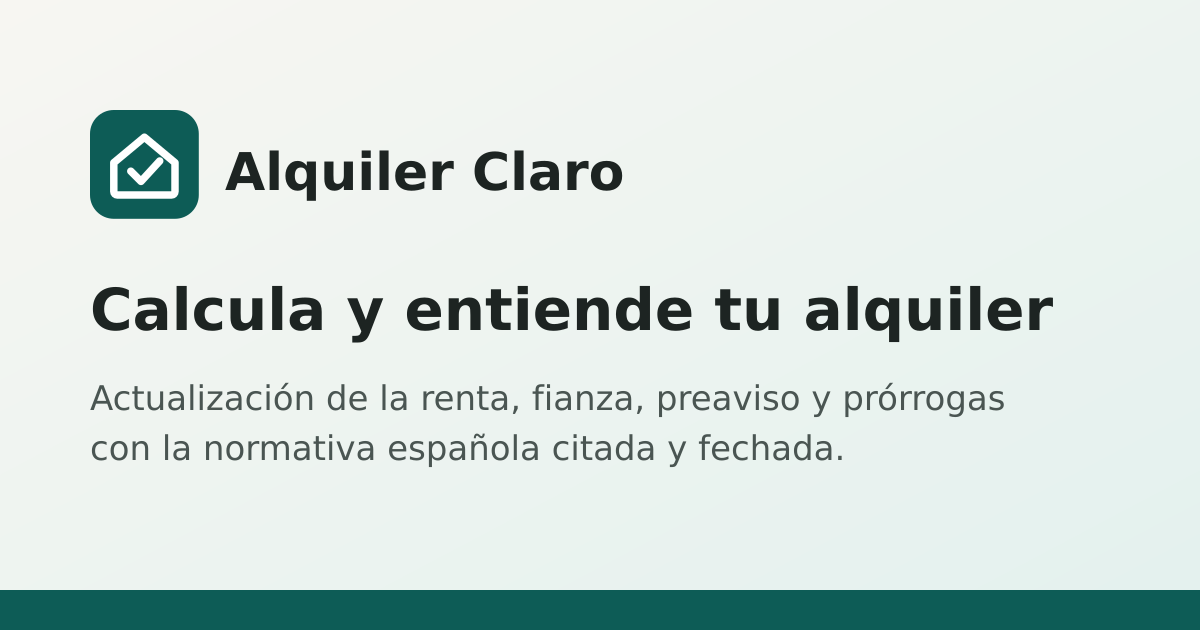
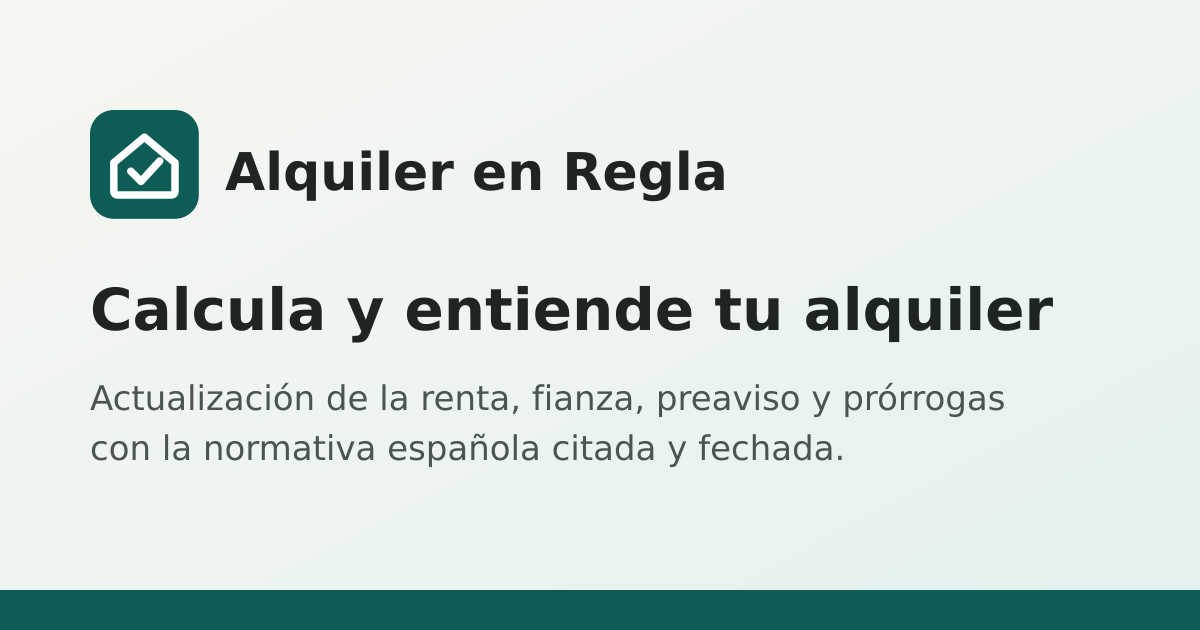
Renombrar el sitio a Alquiler en Regla (alquilerenregla.es)
Nombre y dominio por defecto en la configuración, imagen para redes
sociales regenerada, documentación de compra del dominio y pruebas de
la validación (se sigue rechazando el dominio de ejemplo al indexar).

Claude-Session: https://claude.ai/code/session_014hefrGGB78HWoEZcFjXWe2

Changed region(s): [[0.4008, 0.2413, 0.6167, 0.3317]]

diff --git a/tests/unit/utilidades.test.ts b/tests/unit/utilidades.test.ts
@@ -61,9 +61,17 @@ describe('configuración por variables de entorno', () => {
     expect(cfg.indexable).toBe(false);
     expect(validateEnv(cfg)).toEqual([]);
   });
-  it('indexar exige datos del titular y dominio real', () => {
+  it('el dominio y el nombre por defecto son los del proyecto', () => {
+    const cfg = parseEnv({});
+    expect(cfg.siteUrl).toBe('https://www.alquilerenregla.es');
+    expect(cfg.siteName).toBe('Alquiler en Regla');
+  });
+  it('indexar exige datos del titular', () => {
     const errors = validateEnv(parseEnv({ PUBLIC_SITE_INDEXABLE: 'true' }));
     expect(errors.join(' ')).toContain('PUBLIC_OWNER_NAME');
+  });
+  it('indexar rechaza el dominio de ejemplo antiguo', () => {
+    const errors = validateEnv(parseEnv({ PUBLIC_SITE_INDEXABLE: 'true', PUBLIC_SITE_URL: 'https://www.tu-dominio.es' }));
     expect(errors.join(' ')).toContain('valor de ejemplo');
   });
   it('configuración de producción completa', () => {

diff --git a/src/styles/global.css b/src/styles/global.css
@@ -1,5 +1,5 @@
 /* ==========================================================================
-   Alquiler Claro · estilos globales
+   Alquiler en Regla · estilos globales
    Sin dependencias externas ni fuentes descargadas: rápido y sin rastreo.
    ========================================================================== */
 

diff --git a/docs/03-guia-despliegue.md b/docs/03-guia-despliegue.md
@@ -116,12 +116,15 @@ npm run preview
 
 y abre `http://localhost:4321/`.
 
-## 5. Comprar y configurar un dominio
+## 5. Comprar y configurar el dominio
 
-1. **Elige el nombre.** «Alquiler Claro» es un nombre de trabajo: comprueba que el dominio está libre y que no hay una marca registrada igual o confundible (puedes buscar en la web de la [Oficina Española de Patentes y Marcas](https://www.oepm.es/)). Si eliges otro nombre, cambia `PUBLIC_SITE_NAME`.
-2. **Extensión.** `.es` transmite cercanía al público español; `.com` es más universal. Ambas valen para SEO.
-3. **Dónde comprarlo.** Cualquier registrador acreditado (por ejemplo, registradores españoles para `.es`). Compara el **precio de renovación**, no solo el del primer año, y evita paquetes de alojamiento o correo que no necesitas. Cloudflare Registrar vende dominios a precio de coste, pero no admite todas las extensiones: si no ofrece la tuya, cómprala en otro registrador y usa Cloudflare solo para el DNS (paso 9).
-4. Activa la **renovación automática** y el **bloqueo de transferencia**. Usa tus datos reales en el registro (obligatorio).
+El nombre elegido es **Alquiler en Regla** y el dominio, **`alquilerenregla.es`** (libre el 14/10/2026 según tu comprobación).
+
+1. **Antes de pagar**, busca «Alquiler en Regla» en la web de la [Oficina Española de Patentes y Marcas](https://www.oepm.es/) por si hay una marca igual o parecida registrada para servicios inmobiliarios o de información.
+2. **Dónde comprarlo.** Cloudflare Registrar no vende dominios `.es` (hay una petición abierta en su foro), así que cómpralo en un registrador acreditado y usa Cloudflare solo para el DNS (paso 9). Recomendado: **DonDominio** (español, especializado en dominios, sin empujar a contratar alojamiento) u **OVHcloud** (europeo, precios publicados). IONOS, Arsys o Hostinger también valen, pero suelen tener un primer año barato y una renovación más cara. Compara siempre el **precio de renovación**.
+3. **Al comprar:** crea la cuenta con tus datos reales (titular: tú, con tu DNI o NIE), elige 1 año, **no añadas extras** (alojamiento, correo, SSL, constructor web: Cloudflare los da gratis), activa la **renovación automática** y el bloqueo de transferencia.
+4. **Opcional:** si `alquilerenregla.com` está libre, puedes comprarlo a precio de coste en Cloudflare Registrar y redirigirlo al `.es` para proteger el nombre.
+5. Guarda los correos de confirmación. No compartas contraseñas ni códigos de autorización en ningún chat.
 
 ## 6. Qué alojamiento recomiendo y por qué
 
@@ -130,7 +133,7 @@ y abre `http://localhost:4321/`.
 - Gratis para sitios estáticos como este, con HTTPS automático y red de distribución mundial.
 - Lee el archivo `_headers` que genera el proyecto (cabeceras de seguridad y caché).
 - Despliega solo cada vez que subes cambios a GitHub y crea una vista previa por cada rama.
-- Incluye Web Analytics sin cookies y reenvío de correo gratuito (para `contacto@tudominio.es`).
+- Incluye Web Analytics sin cookies y reenvío de correo gratuito (para `contacto@alquilerenregla.es`).
 - Límites del plan gratuito según su documentación: 500 compilaciones al mes y 20.000 archivos por sitio, sobrados para este proyecto. Compruébalos en [la página de límites](https://developers.cloudflare.com/pages/platform/limits/).
 
 Limitaciones y alternativas:
@@ -162,7 +165,7 @@ El código está en la rama `claude/sweet-dijkstra-tw4ipu`. Lo normal es fusiona
    - **Comando de compilación:** `npm run build`
    - **Directorio de salida:** `dist`
 4. Antes de pulsar «Guardar e implementar», añade las variables del paso 8.
-5. Pulsa **Guardar e implementar**. Resultado esperado: tras 1–2 minutos, «Éxito» y una dirección del tipo `https://alquiler-claro.pages.dev`.
+5. Pulsa **Guardar e implementar**. Resultado esperado: tras 1–2 minutos, «Éxito» y una dirección del tipo `https://alquiler-en-regla.pages.dev`.
 
 ## 8. Configurar las variables de entorno
 
@@ -171,13 +174,13 @@ En el proyecto de Pages: **Configuración → Variables y secretos** (entorno de
 | Variable | Valor en el primer despliegue | Valor al lanzar |
 |---|---|---|
 | `NODE_VERSION` | `24` | `24` |
-| `PUBLIC_SITE_URL` | `https://www.tudominio.es` | igual |
-| `PUBLIC_SITE_NAME` | `Alquiler Claro` (o tu nombre) | igual |
+| `PUBLIC_SITE_URL` | `https://www.alquilerenregla.es` | igual |
+| `PUBLIC_SITE_NAME` | `Alquiler en Regla` | igual |
 | `PUBLIC_SITE_INDEXABLE` | `false` | `true` (paso 10) |
 | `PUBLIC_OWNER_NAME` | tu nombre o razón social | igual |
 | `PUBLIC_OWNER_NIF` | tu NIF | igual |
 | `PUBLIC_OWNER_ADDRESS` | domicilio a efectos de notificaciones | igual |
-| `PUBLIC_CONTACT_EMAIL` | `contacto@tudominio.es` | igual |
+| `PUBLIC_CONTACT_EMAIL` | `contacto@alquilerenregla.es` | igual |
 | `PUBLIC_CF_ANALYTICS_ENABLED` | `false` | `true` si activas Web Analytics |
 | `PUBLIC_GOOGLE_SITE_VERIFICATION` | vacío | solo si verificas Search Console por etiqueta HTML |
 | `PUBLIC_ADSENSE_CLIENT`, `PUBLIC_ADSENSE_SLOT_*`, `PUBLIC_GA4_ID` | vacío | ver `docs/04-guia-adsense-monetizacion.md` |
@@ -192,17 +195,17 @@ Si la compilación falla con «Configuración no válida», el mensaje dice exac
 
 1. En Cloudflare: **Añadir un dominio** (plan Free). Cloudflare te mostrará **dos servidores de nombres** (por ejemplo `xxx.ns.cloudflare.com`).
 2. En el panel de tu registrador, cambia los **servidores DNS** del dominio por esos dos. La propagación tarda de minutos a 24-48 h; Cloudflare te avisará por correo cuando esté activo.
-3. En el proyecto de Pages → **Dominios personalizados** → **Configurar un dominio** → escribe `www.tudominio.es` → Cloudflare crea el registro DNS. Repite con `tudominio.es`.
-4. Para que solo haya una versión, crea una redirección: **Reglas → Reglas de redirección → Crear regla** con la plantilla «Redirigir de raíz a WWW» (301). Así `tudominio.es` lleva a `https://www.tudominio.es`.
+3. En el proyecto de Pages → **Dominios personalizados** → **Configurar un dominio** → escribe `www.alquilerenregla.es` → Cloudflare crea el registro DNS. Repite con `alquilerenregla.es`.
+4. Para que solo haya una versión, crea una redirección: **Reglas → Reglas de redirección → Crear regla** con la plantilla «Redirigir de raíz a WWW» (301). Así `alquilerenregla.es` lleva a `https://www.alquilerenregla.es`.
 5. **HTTPS:** Cloudflare emite el certificado automáticamente. En **SSL/TLS → Certificados perimetrales**, activa «Usar siempre HTTPS».
-6. **Correo de contacto (opcional, gratis):** **Correo electrónico → Enrutamiento de correo** → crea `contacto@tudominio.es` que reenvíe a tu correo personal.
+6. **Correo de contacto (opcional, gratis):** **Correo electrónico → Enrutamiento de correo** → crea `contacto@alquilerenregla.es` que reenvíe a tu correo personal.
 7. **Analítica sin cookies (opcional):** en el proyecto de Pages → **Métricas → Web Analytics → Habilitar**, y pon `PUBLIC_CF_ANALYTICS_ENABLED=true` para que la política de privacidad lo mencione.
 
 ## 10. Comprobar la web pública y abrirla a Google
 
 Con el sitio aún en modo revisión, comprueba:
 
-- [ ] `https://www.tudominio.es/` carga con candado (HTTPS) y la redirección desde `tudominio.es` funciona.
+- [ ] `https://www.alquilerenregla.es/` carga con candado (HTTPS) y la redirección desde `alquilerenregla.es` funciona.
 - [ ] El aviso legal, la privacidad y el contacto muestran **tus datos reales** (no «Pendiente de completar»).
 - [ ] Las 8 calculadoras dan resultado con un ejemplo de su página.
 - [ ] Desde el móvil se ve bien y el menú funciona.
@@ -210,13 +213,13 @@ Con el sitio aún en modo revisión, comprueba:
 
 Cuando todo esté bien, cambia `PUBLIC_SITE_INDEXABLE` a `true` y vuelve a implementar. Comprueba entonces:
 
-- [ ] `https://www.tudominio.es/robots.txt` muestra `Allow: /` y la línea `Sitemap:`.
-- [ ] `https://www.tudominio.es/sitemap-index.xml` se abre y enlaza a `sitemap-0.xml` con 27 direcciones.
+- [ ] `https://www.alquilerenregla.es/robots.txt` muestra `Allow: /` y la línea `Sitemap:`.
+- [ ] `https://www.alquilerenregla.es/sitemap-index.xml` se abre y enlaza a `sitemap-0.xml` con 27 direcciones.
 - [ ] La franja amarilla de «Versión de revisión» ha desaparecido.
 - [ ] Desde la terminal, las cabeceras de seguridad están presentes:
 
 ```bash
-curl -sI https://www.tudominio.es/ | grep -i -E "content-security-policy|strict-transport|x-content-type"
+curl -sI https://www.alquilerenregla.es/ | grep -i -E "content-security-policy|strict-transport|x-content-type"
 ```
 
 Resultado esperado: tres líneas con esas cabeceras. (En Windows, si no tienes `curl`, usa una herramienta web de cabeceras HTTP.)

diff --git a/docs/04-guia-adsense-monetizacion.md b/docs/04-guia-adsense-monetizacion.md
@@ -31,7 +31,7 @@ npm run test:e2e
 
 ## FASE B · Indexación y SEO
 
-1. **Crea la propiedad en [Google Search Console](https://search.google.com/search-console).** Elige **Propiedad de dominio** y escribe `tudominio.es`.
+1. **Crea la propiedad en [Google Search Console](https://search.google.com/search-console).** Elige **Propiedad de dominio** y escribe `alquilerenregla.es`.
 2. **Verifícala por DNS** (recomendado): Search Console te da un registro TXT; en Cloudflare ve a **DNS → Registros → Añadir registro**, tipo `TXT`, nombre `@`, contenido el valor que te den. Pulsa «Verificar» en Search Console (puede tardar unos minutos).
    - Alternativa: propiedad de prefijo de URL con etiqueta HTML → copia solo el valor `content="..."` en `PUBLIC_GOOGLE_SITE_VERIFICATION` y vuelve a implementar.
 3. **Envía el sitemap:** en Search Console → **Sitemaps** → escribe `sitemap-index.xml` → Enviar. Estado esperado: «Correcto», con 27 URL descubiertas.
@@ -45,12 +45,12 @@ npm run test:e2e
 ## FASE C · Solicitud de AdSense
 
 1. **Crea la cuenta** en [adsense.google.com](https://adsense.google.com/) con la misma cuenta de Google que usarás para cobrar. País: España. Tipo de cuenta: **particular** o **empresa** según cómo vayas a facturar (consúltalo antes con tu asesor; ver fase E).
-2. **Añade el sitio:** **Sitios → + Nuevo sitio** → escribe `tudominio.es` ([ayuda](https://support.google.com/adsense/answer/12169212)).
+2. **Añade el sitio:** **Sitios → + Nuevo sitio** → escribe `alquilerenregla.es` ([ayuda](https://support.google.com/adsense/answer/12169212)).
 3. **Conecta el sitio** ([ayuda](https://support.google.com/adsense/answer/7584263)). AdSense ofrece tres métodos; con este proyecto el más sencillo es el **fragmento de código**:
    - Copia tu ID de editor, con formato `ca-pub-` seguido de 16 dígitos (aparece en el código que te muestra AdSense y en **Cuenta → Información de la cuenta**).
    - En Cloudflare Pages, define `PUBLIC_ADSENSE_CLIENT=ca-pub-XXXXXXXXXXXXXXXX` y vuelve a implementar.
    - El proyecto insertará el código de AdSense en el `<head>` de todas las páginas, la etiqueta `google-adsense-account` y generará **`/ads.txt`** con la línea `google.com, pub-XXXXXXXXXXXXXXXX, DIRECT, f08c47fec0942fa0`. Así cubres a la vez el método del código y el de ads.txt.
-   - Comprueba en el navegador que `https://www.tudominio.es/ads.txt` muestra esa línea.
+   - Comprueba en el navegador que `https://www.alquilerenregla.es/ads.txt` muestra esa línea.
    - En AdSense, marca «He colocado el código» y pulsa **Verificar**.
 4. **Completa las tareas de la cuenta** (datos de pago, dirección, verificación de identidad si te la piden). Si solicitas la revisión sin completarlas, el sitio se queda en «Preparándose» ([ayuda](https://support.google.com/adsense/answer/12170222)).
 5. **Solicita la revisión** («Solicitar revisión»). Según la ayuda de Google suele tardar unos días y a veces 2-4 semanas. **No borres y vuelvas a añadir el sitio**: retrasa el proceso. Puedes consultar el estado en **Sitios**.
@@ -76,7 +76,7 @@ npm run test:e2e
    - **Nunca hagas clic en tus propios anuncios** ni pidas a nadie que lo haga.
    - En AdSense → **Informes**, comprueba que aparecen impresiones y solicitudes de anuncios por sitio.
 4. **Consentimiento (obligatorio para tráfico de España y la UE):**
-   - AdSense → **Privacidad y mensajes → Normativa europea** → **Crear mensaje** para tu sitio ([ayuda](https://support.google.com/adsense/answer/10961068)). Idioma: español. Elige las opciones **Consentir**, **No consentir** y **Gestionar opciones** (la AEPD exige que rechazar sea tan fácil como aceptar). Añade el enlace a tu política de privacidad (`https://www.tudominio.es/privacidad/`). Publica el mensaje.
+   - AdSense → **Privacidad y mensajes → Normativa europea** → **Crear mensaje** para tu sitio ([ayuda](https://support.google.com/adsense/answer/10961068)). Idioma: español. Elige las opciones **Consentir**, **No consentir** y **Gestionar opciones** (la AEPD exige que rechazar sea tan fácil como aceptar). Añade el enlace a tu política de privacidad (`https://www.alquilerenregla.es/privacidad/`). Publica el mensaje.
    - AdSense añade automáticamente un enlace para revocar el consentimiento; además, el pie de la web muestra «Configuración de privacidad y cookies», que reabre el mensaje ([ayuda](https://support.google.com/adsense/answer/10959060)).
    - Si usas Google Analytics 4, activa en **Privacidad y mensajes → Configuración** la opción que permite a otros productos de Google usar las señales de consentimiento (modo de consentimiento; [ayuda](https://support.google.com/adsense/answer/16053245)). El proyecto ya carga GA4 con todo **denegado** por defecto.
    - Comprueba desde una ventana privada que el mensaje aparece al entrar y que, al rechazar, se siguen viendo anuncios no personalizados o limitados.

diff --git a/README.md b/README.md
@@ -1,4 +1,4 @@
-# Alquiler Claro
+# Alquiler en Regla
 
 Calculadoras y guías gratuitas sobre el **alquiler de vivienda en España** para inquilinos y pequeños propietarios: actualización de la renta (IPC, IRAV y límite extraordinario del 2 %), carta de actualización, fin del contrato y prórrogas, desistimiento, devolución de la fianza, prorrateo, asequibilidad y rentabilidad. Cada resultado explica los pasos y cita la norma aplicada, con fecha de revisión.
 
@@ -75,8 +75,8 @@ Todas empiezan por `PUBLIC_` porque su valor es público. Ninguna es un secreto.
 
 | Variable | Obligatoria | Descripción |
 |---|---|---|
-| `PUBLIC_SITE_URL` | Sí | URL definitiva con https y sin barra final |
-| `PUBLIC_SITE_NAME` | No | Nombre visible (por defecto «Alquiler Claro») |
+| `PUBLIC_SITE_URL` | Sí | URL definitiva con https y sin barra final (por defecto `https://www.alquilerenregla.es`) |
+| `PUBLIC_SITE_NAME` | No | Nombre visible (por defecto «Alquiler en Regla») |
 | `PUBLIC_SITE_INDEXABLE` | Sí | `true` solo al lanzar; si no, `noindex` y robots bloqueante |
 | `PUBLIC_OWNER_NAME`, `PUBLIC_OWNER_NIF`, `PUBLIC_OWNER_ADDRESS`, `PUBLIC_CONTACT_EMAIL` | Sí para indexar | Datos del titular (LSSI-CE). La compilación falla si faltan con `PUBLIC_SITE_INDEXABLE=true` |
 | `PUBLIC_GOOGLE_SITE_VERIFICATION` | No | Verificación de Search Console por etiqueta HTML |

diff --git a/docs/12-tareas-pendientes-y-proximas-acciones.md b/docs/12-tareas-pendientes-y-proximas-acciones.md
@@ -4,7 +4,7 @@
 
 | # | Tarea | Por qué | Dónde |
 |---|---|---|---|
-| 1 | Elegir el nombre definitivo, comprobar marcas y comprar el dominio | No puedo comprar ni registrar nada en tu nombre | `docs/03`, paso 5 |
+| 1 | Comprobar la marca «Alquiler en Regla» en la OEPM y comprar `alquilerenregla.es` (DonDominio u OVHcloud) | No puedo comprar ni registrar nada en tu nombre | `docs/03`, paso 5 |
 | 2 | Crear la cuenta de Cloudflare (gratis) y conectar el repositorio | Requiere tus credenciales | `docs/03`, paso 7 |
 | 3 | Fusionar la rama `claude/sweet-dijkstra-tw4ipu` en `main` (pull request en GitHub) | Publicar desde la rama principal | `docs/03`, paso 7.1 |
 | 4 | Rellenar tus datos de titular (`PUBLIC_OWNER_NAME`, `PUBLIC_OWNER_NIF`, `PUBLIC_OWNER_ADDRESS`, `PUBLIC_CONTACT_EMAIL`) en el panel de Cloudflare | Obligatorio por la LSSI-CE; no invento identidades | `docs/03`, paso 8 |
